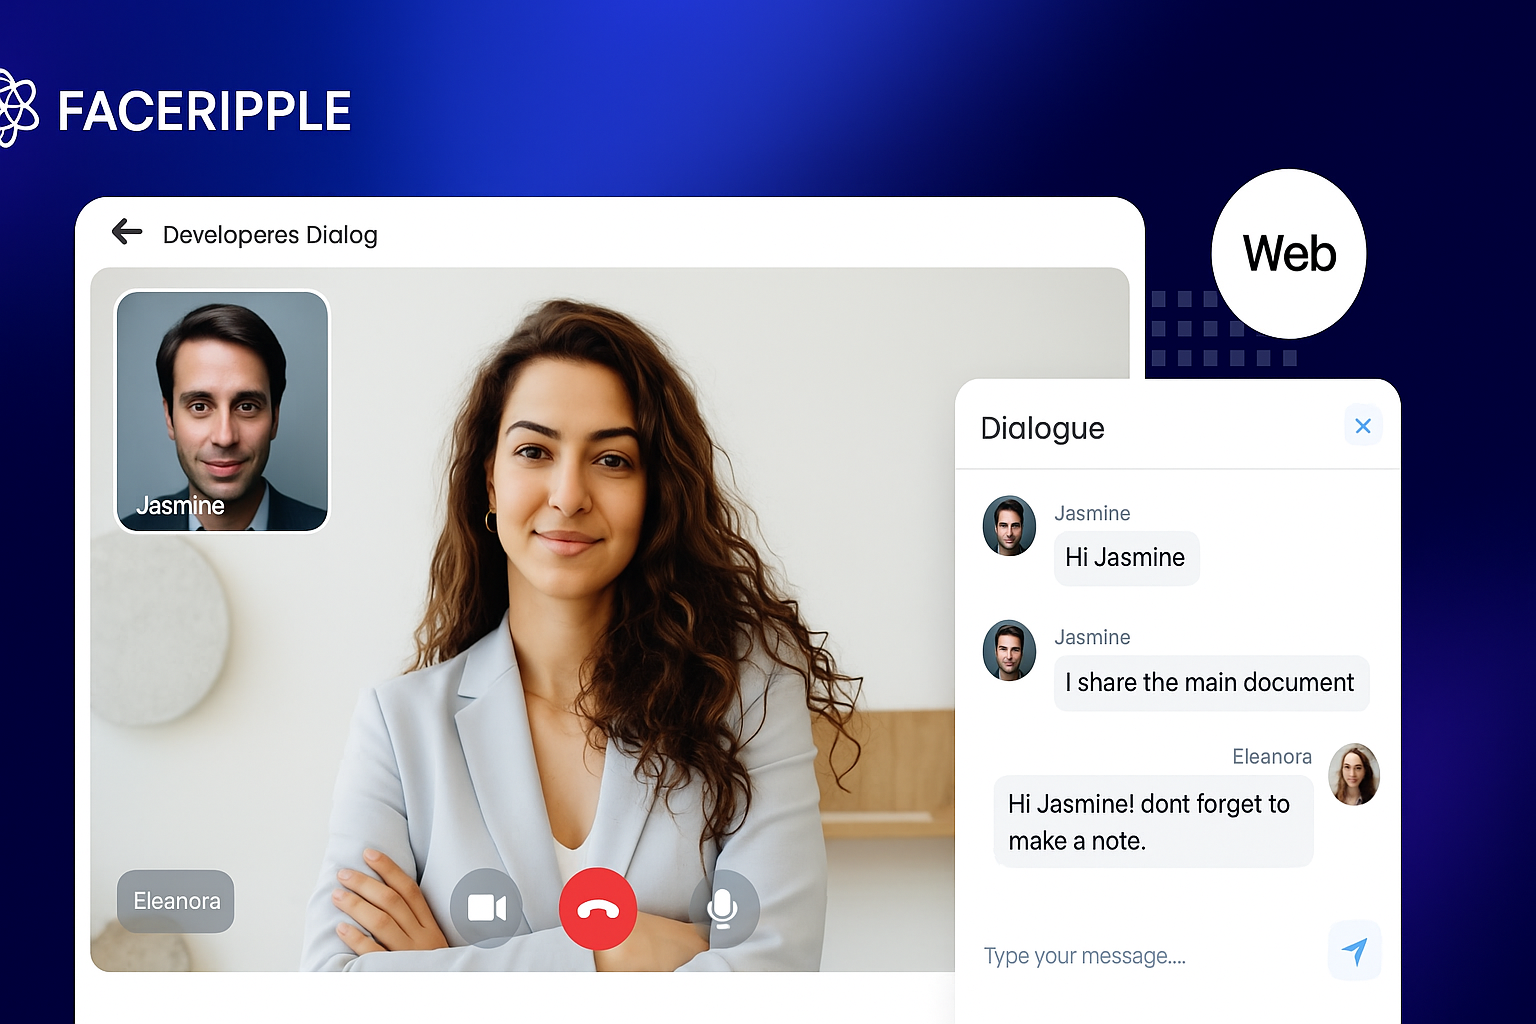
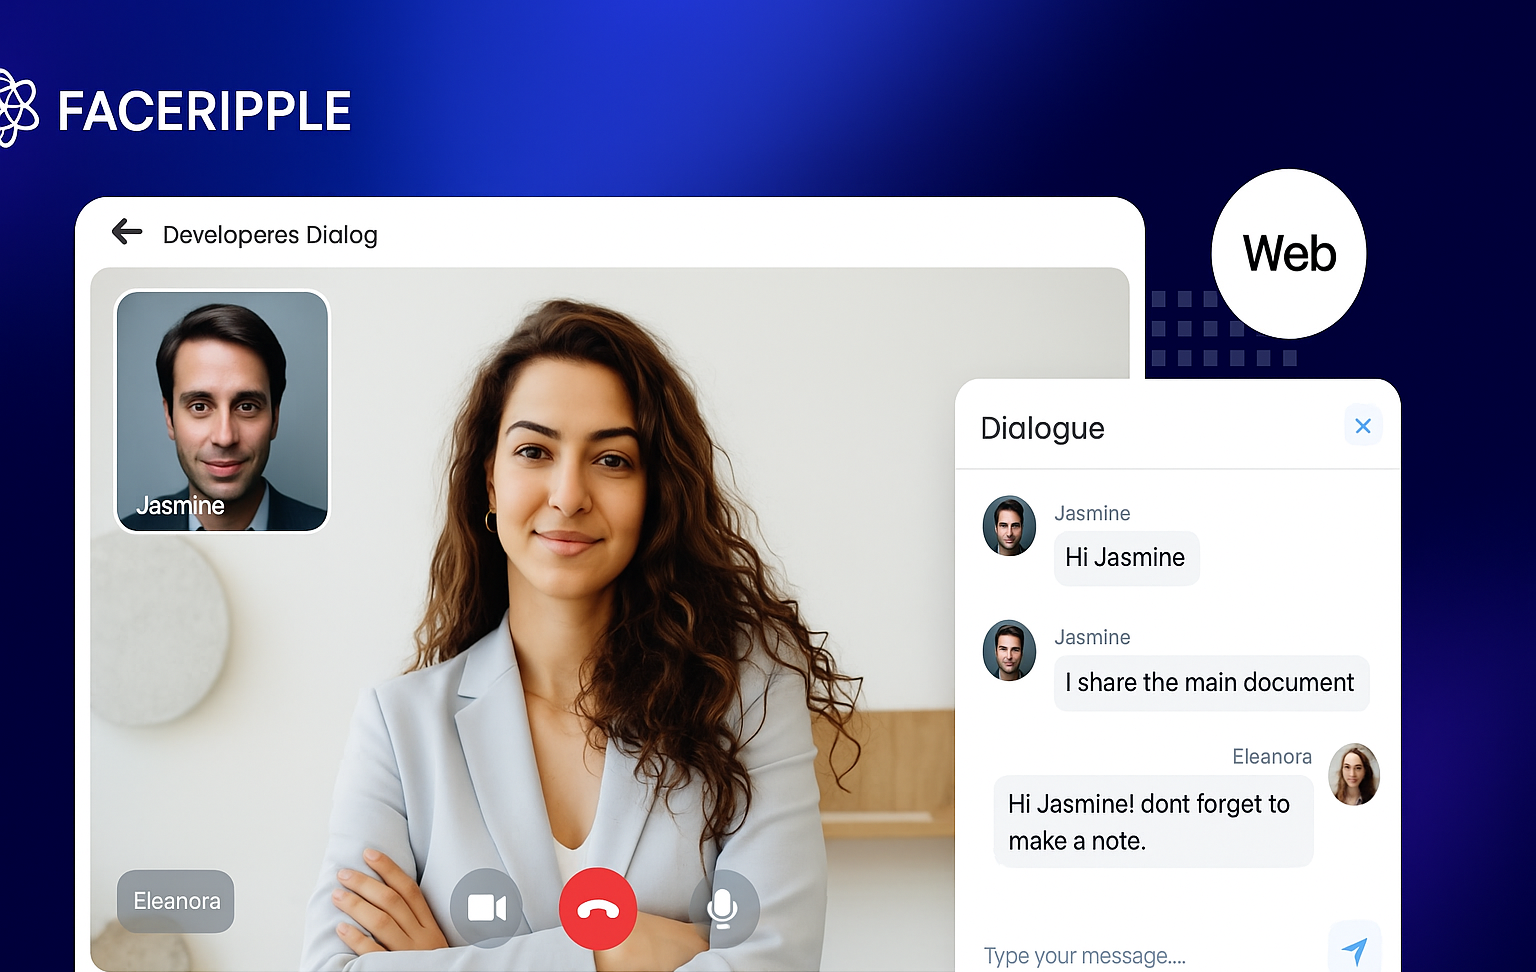
images corrected

diff --git a/src/components/sections/Projects.jsx b/src/components/sections/Projects.jsx
@@ -11,7 +11,7 @@ const webProjects = [
     id: 1,
     title: "FaceRipple",
     description: "Video Calling Realtime Chat App & Social App",
-    image: "/assets/FaceRipple.png",
+    image: "/assets/FaceRipple1.png",
     technologies: [
       "React",
       "Node.js",
@@ -29,7 +29,7 @@ const webProjects = [
     title: "ResumeGenie Ai",
     description:
       "An AI-powered Resume Tracker which tracks the resume and provides insights. It also generates the ATS (Applicant Tracking System) score for the resume. It uses OpenAI's GPT-3.5 Turbo model for generating the ATS score and insights. IT also gives suggestions to improve the resume. Built with React(Typescript), puter.js, and Tailwind CSS.",
-    image: "/assets/ResumeGenie.png",
+    image: "/assets/ResumeGenie1.png",
     technologies: [
       "React",
       "Typescript",
